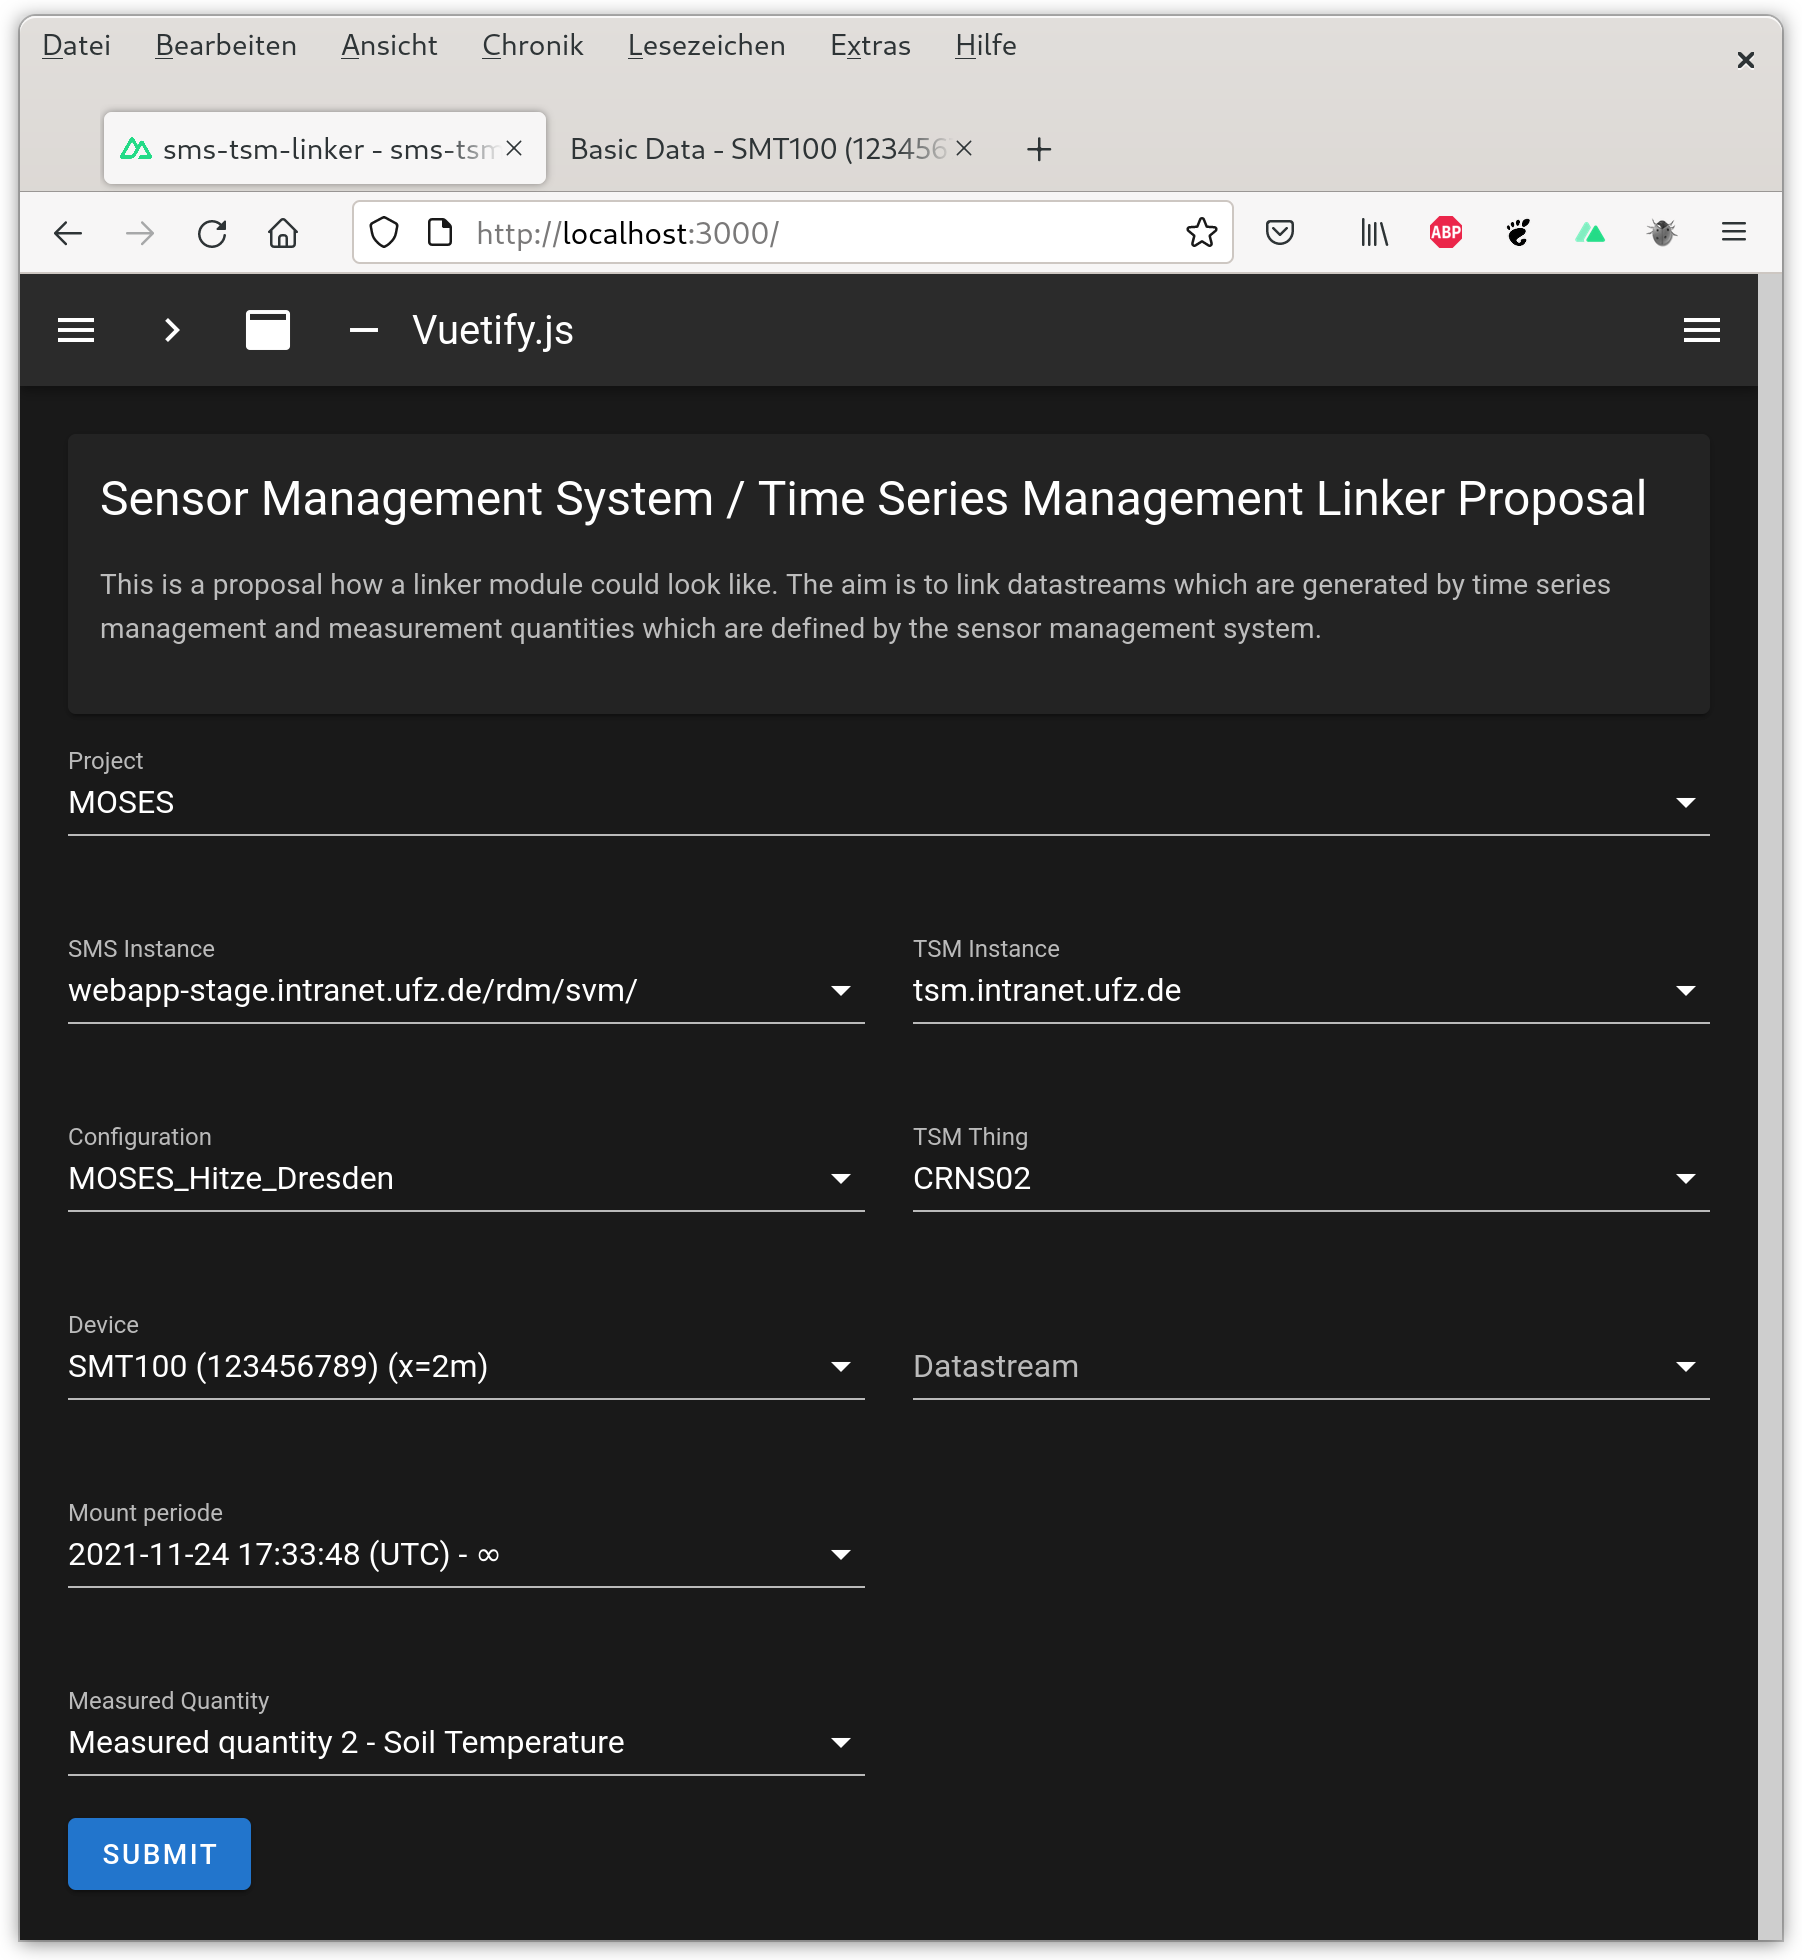
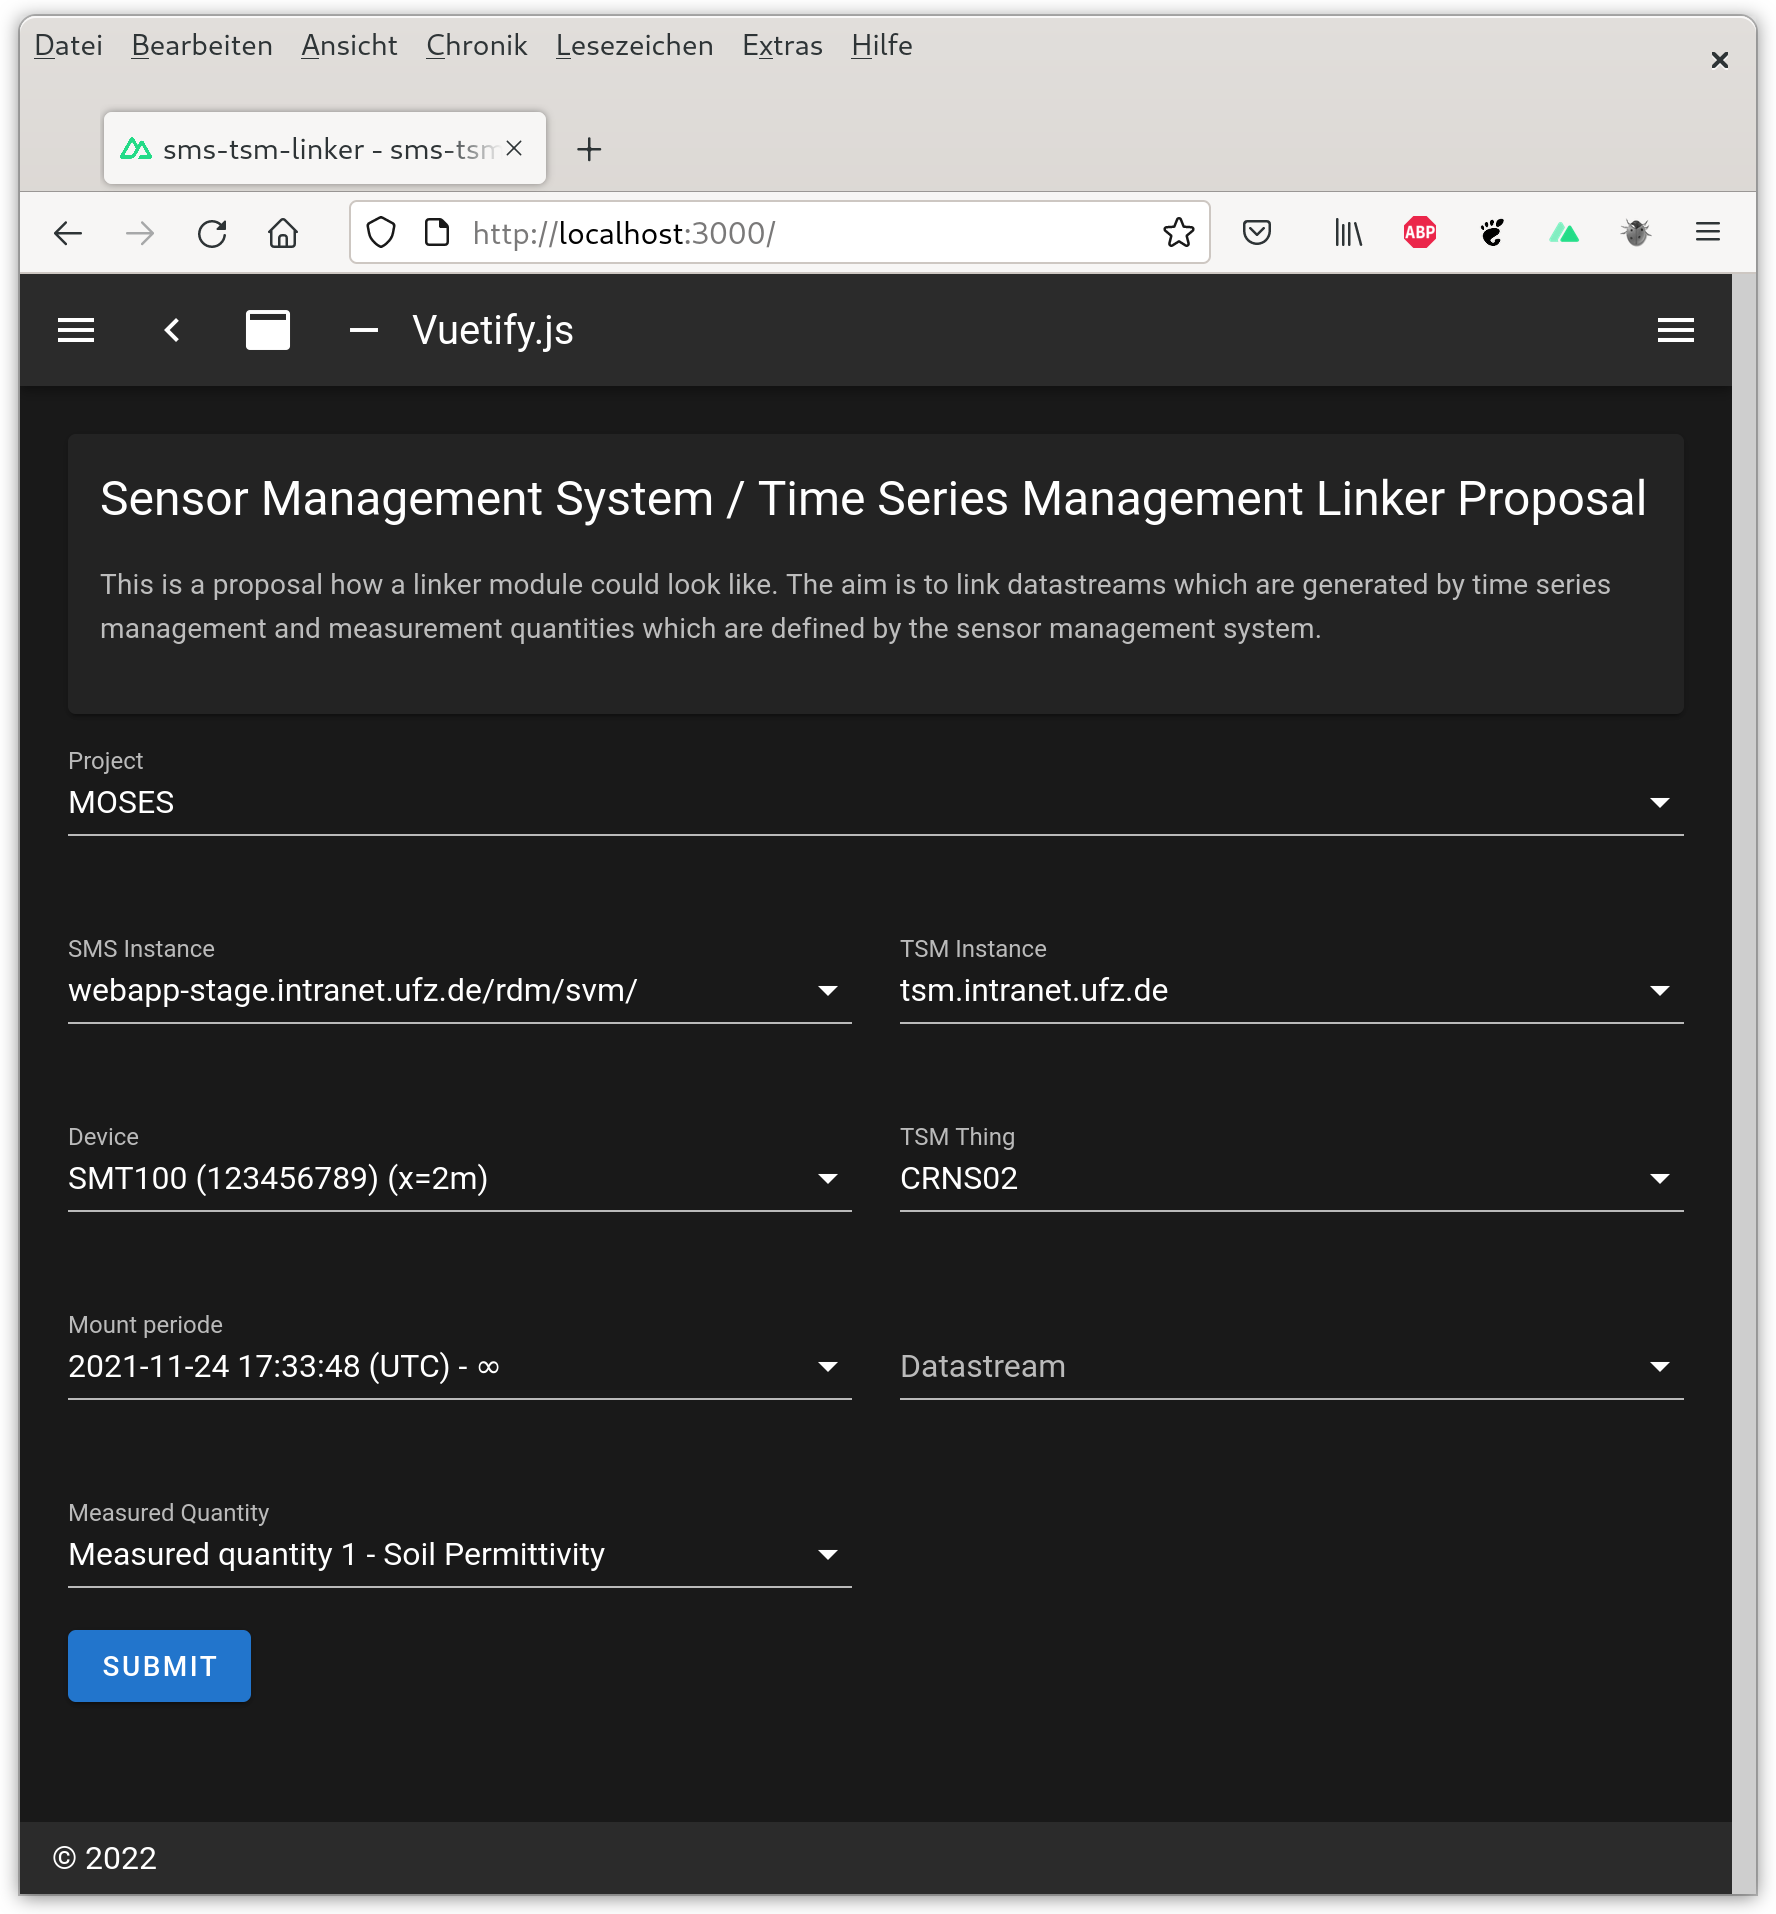
Cut of sensor configuration as we can rely on device mount/unmount actions.

diff --git a/src/sms-tsm-linker/pages/index.vue b/src/sms-tsm-linker/pages/index.vue
@@ -40,17 +40,17 @@
         </v-col>
 
         <v-col cols="12" sm="6" md="6">
-          <v-select :value="projects[1].configurations[1].name" label="Configuration"
-                    :items="projects[1].configurations.map(({name}) => name)"/>
+
+          <v-select :value="projects[1].configurations[1].devices[0]" label="Device"
+                    :items="projects[1].configurations[1].devices"/>
         </v-col>
         <v-col cols="12" sm="6" md="6">
           <v-select :value="tsm.things[1].name" label="TSM Thing"
                     :items="tsm.things.map(({name}) => name)"/>
         </v-col>
         <v-col cols="12" sm="6" md="6">
-
-          <v-select :value="projects[1].configurations[1].devices[0]" label="Device"
-                    :items="projects[1].configurations[1].devices"/>
+          <v-select :value="mountPeriods[0]" label="Mount periode"
+                    :items="mountPeriods"/>
         </v-col>
         <v-col cols="12" sm="6" md="6">
 
@@ -61,21 +61,10 @@
         </v-col>
 
         <v-col cols="12" sm="6" md="6">
-
-          <v-select :value="mountPeriods[0]" label="Mount periode"
-                    :items="mountPeriods"/>
-        </v-col>
-        <v-col cols="12" sm="6" md="6">
-
-        </v-col>
-
-        <v-col cols="12" sm="6" md="6">
-
           <v-select :value="measuredQuantities[0]" label="Measured Quantity"
                     :items="measuredQuantities"/>
         </v-col>
         <v-col cols="12" sm="6" md="6">
-
         </v-col>
 
       </v-row>

diff --git a/README.md b/README.md
@@ -73,7 +73,7 @@ A possible one string (persistent?) id would be `<instance>/<thing.uuid>/<datast
 
 ## SMS: Unique Measured quantity id 
 
-`<sms-instance><configuration.id><device_property.id>`
+`<sms-instance><device.id><device_property.id>`
 
 - maybe device URN can be part of the identifier?
 
@@ -98,7 +98,7 @@ beginning of time. ;)
 | tsm_thing              | `b3b16570-5e55-11ec-902c-54e1ad7c5c19` |
 | tsm_datastream_id      | `7`                                    |
 | sms_instance           | `webapp-stage.intranet.ufz.de/sms/`    |
-| sms_configuration_id   | `23`                                   |
+| sms_device_id          | `23`                                   |
 | sms_device_property_id | `42`                                   |
 | start_date             | `2010-01-01 12:00:00.000000 +00:00`    |
 | end_date               | `2020-01-01 12:00:00.000000 +00:00`    |
